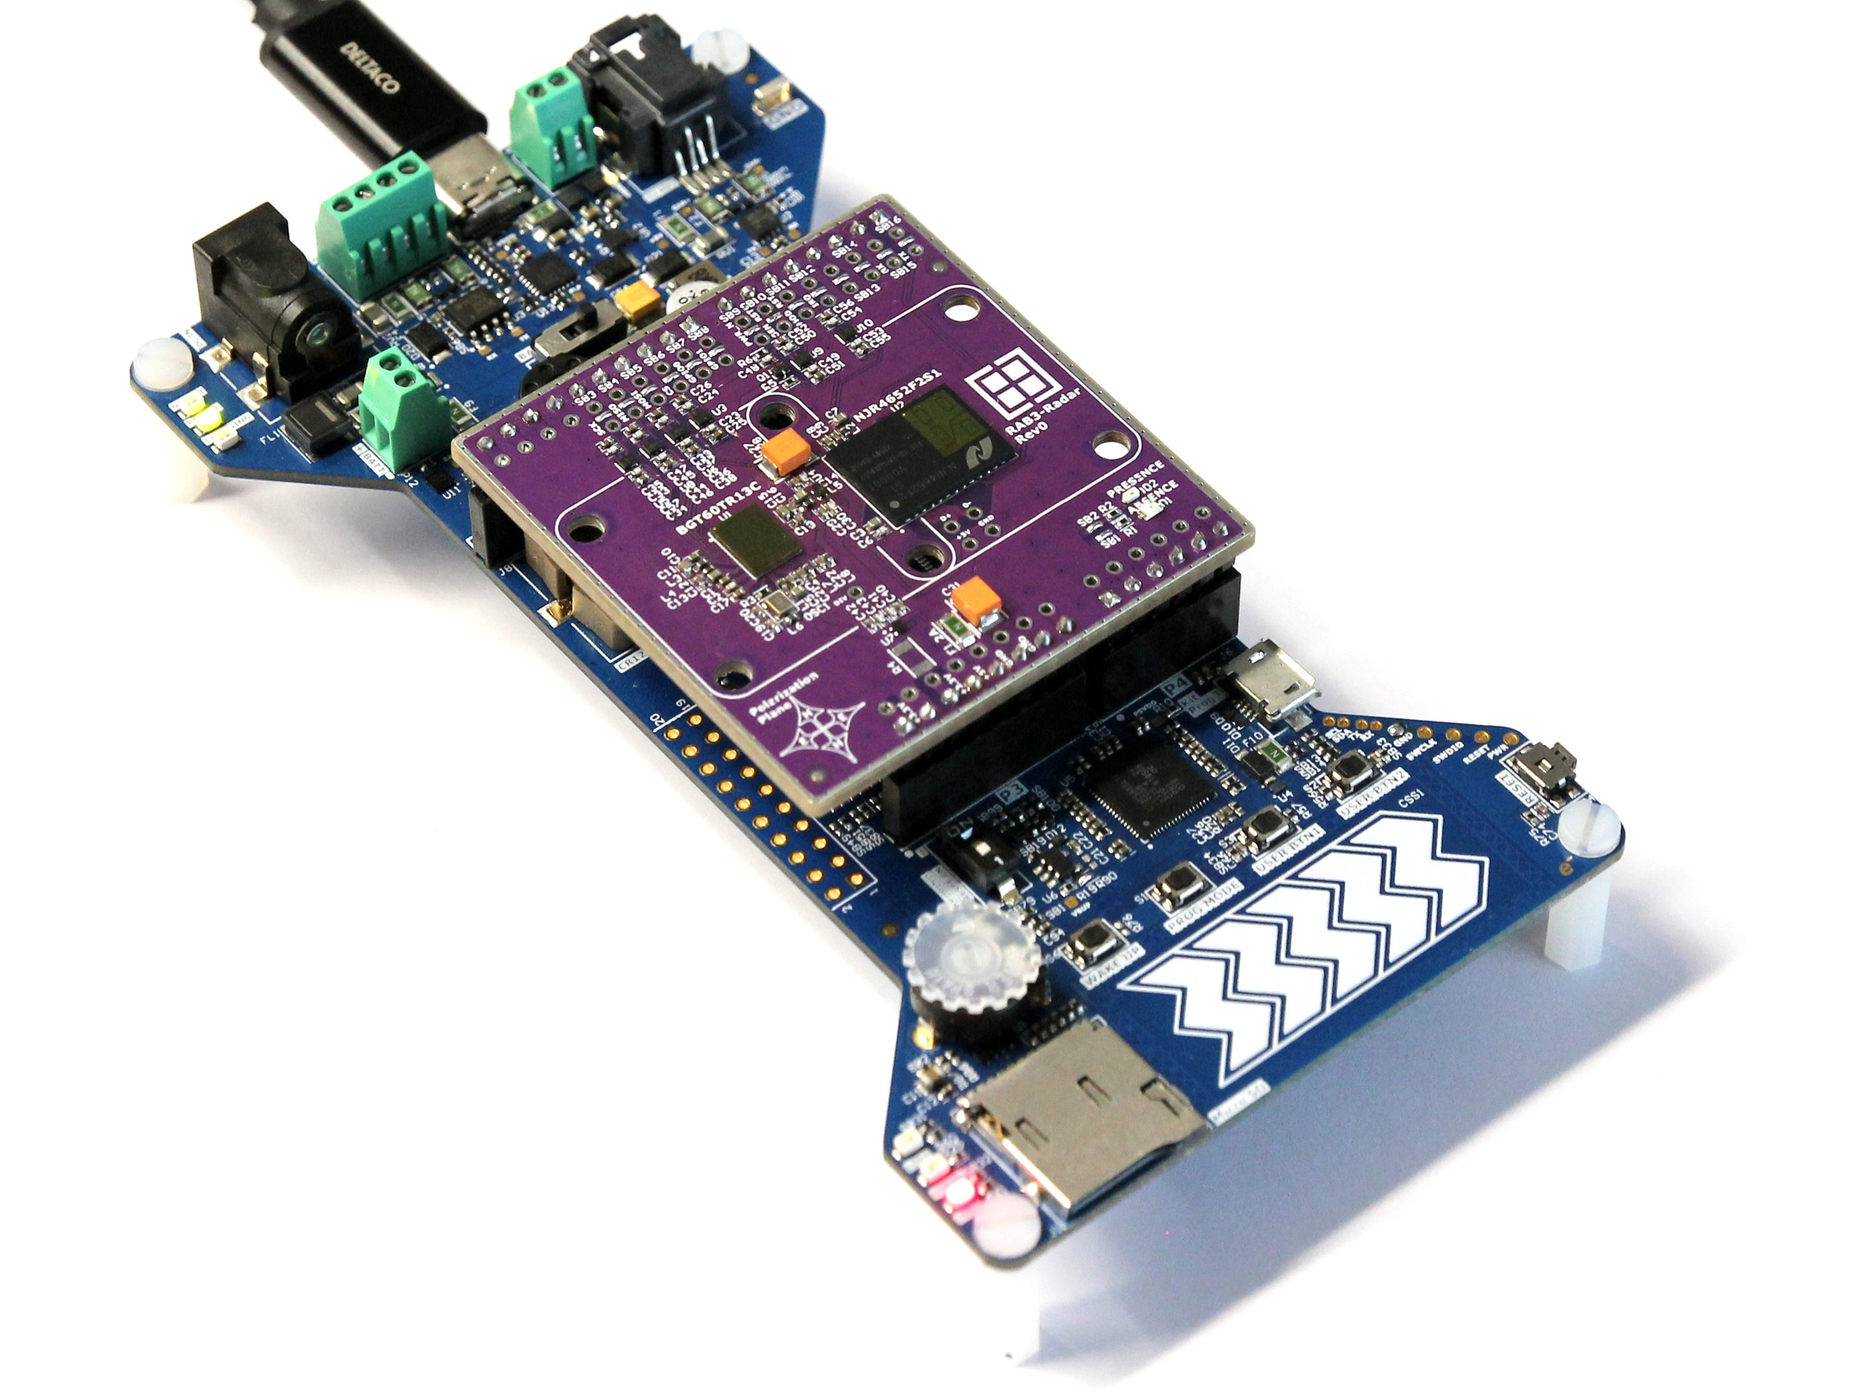
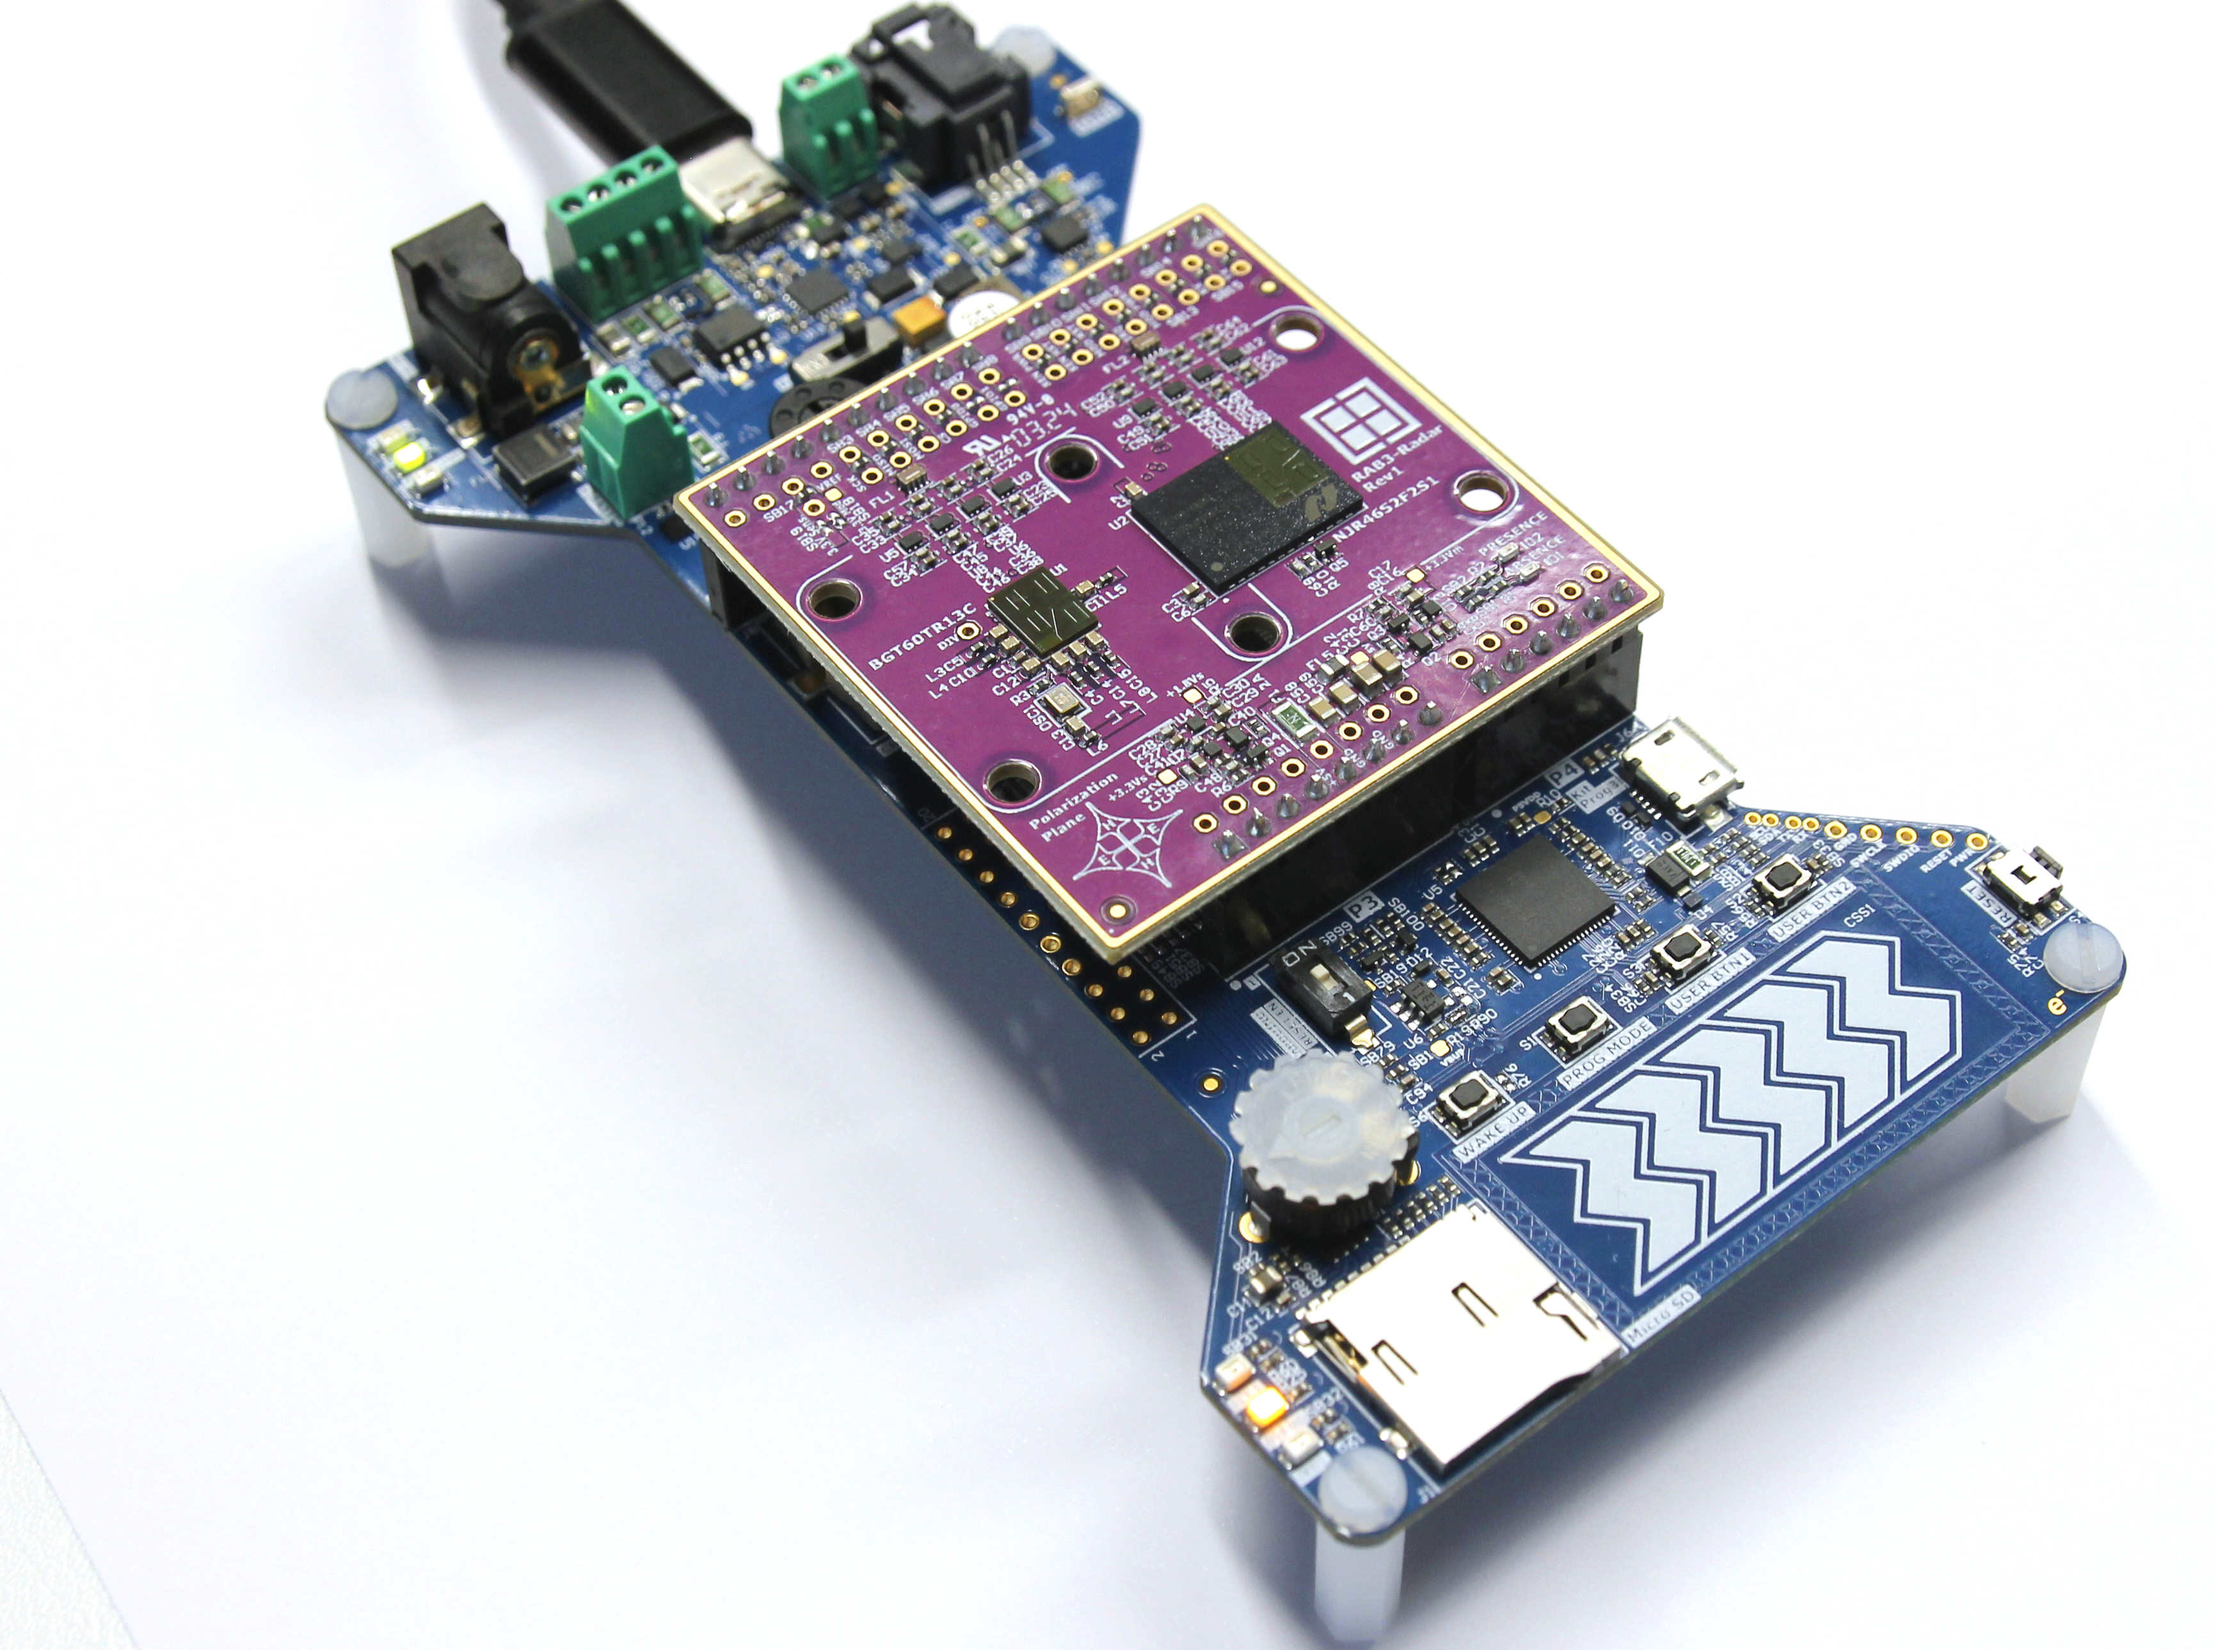
rev.1 updates

diff --git a/radar_fusion/impl/Platform.c b/radar_fusion/impl/Platform.c
@@ -104,7 +104,7 @@ void Platform_Constructor(void)
     {CY_ASSERT(0);}
 
     /*Initialize BGT60TR13C Power Control pin*/
-    result = cyhal_gpio_init(ARDU_IO3, CYHAL_GPIO_DIR_OUTPUT, CYHAL_GPIO_DRIVE_STRONG, false); /*Keep it OFF*/
+    result = cyhal_gpio_init(ARDU_IO3, CYHAL_GPIO_DIR_OUTPUT, CYHAL_GPIO_DRIVE_STRONG, true); /*Turn it ON*/
     if (result != CY_RSLT_SUCCESS)
     {CY_ASSERT(0);}
 
@@ -119,8 +119,8 @@ void Platform_Constructor(void)
     CyDelay(20);
     cyhal_gpio_write(RAD_RSTN, true);
 
-    /*Initialize NJR4652F2S2 RESET pin*/
-    result = cyhal_gpio_init(ARDU_IO5, CYHAL_GPIO_DIR_OUTPUT, CYHAL_GPIO_DRIVE_OPENDRAINDRIVESLOW, false); /*Keep it OFF*/
+    /*Initialize NJR4652F2S2 POWER pin*/
+    result = cyhal_gpio_init(ARDU_IO7, CYHAL_GPIO_DIR_OUTPUT, CYHAL_GPIO_DRIVE_OPENDRAINDRIVESLOW, false); /*Keep it OFF*/
     if (result != CY_RSLT_SUCCESS)
     {CY_ASSERT(0);}
 

diff --git a/README.md b/README.md
@@ -10,7 +10,7 @@ Radar Fusion GUI detects only the BGT60TR13C part of the RAB3-Radar adapter boar
 
 - [ModusToolbox® software](https://www.infineon.com/cms/en/design-support/tools/sdk/modustoolbox-software/) **v3.x** [built with **v3.1**]
 - [Radar Fusion GUI](https://softwaretools.infineon.com/tools/com.ifx.tb.tool.radarfusiongui) [tested with **v3.5.4**]
-- [RAB3-Radar Rev.0](https://github.com/RutronikSystemSolutions/RAB3_Radar_Hardware_Files/tree/main/Rev0) Rutronik Adapter Board
+- [RAB3-Radar Rev.1](https://github.com/RutronikSystemSolutions/RAB3_Radar_Hardware_Files) [official first release] Rutronik Adapter Board
 - [RDK2](https://github.com/RutronikSystemSolutions/RDK2_Documents) Rutronik Development Kit
 
 ## Using the code example
